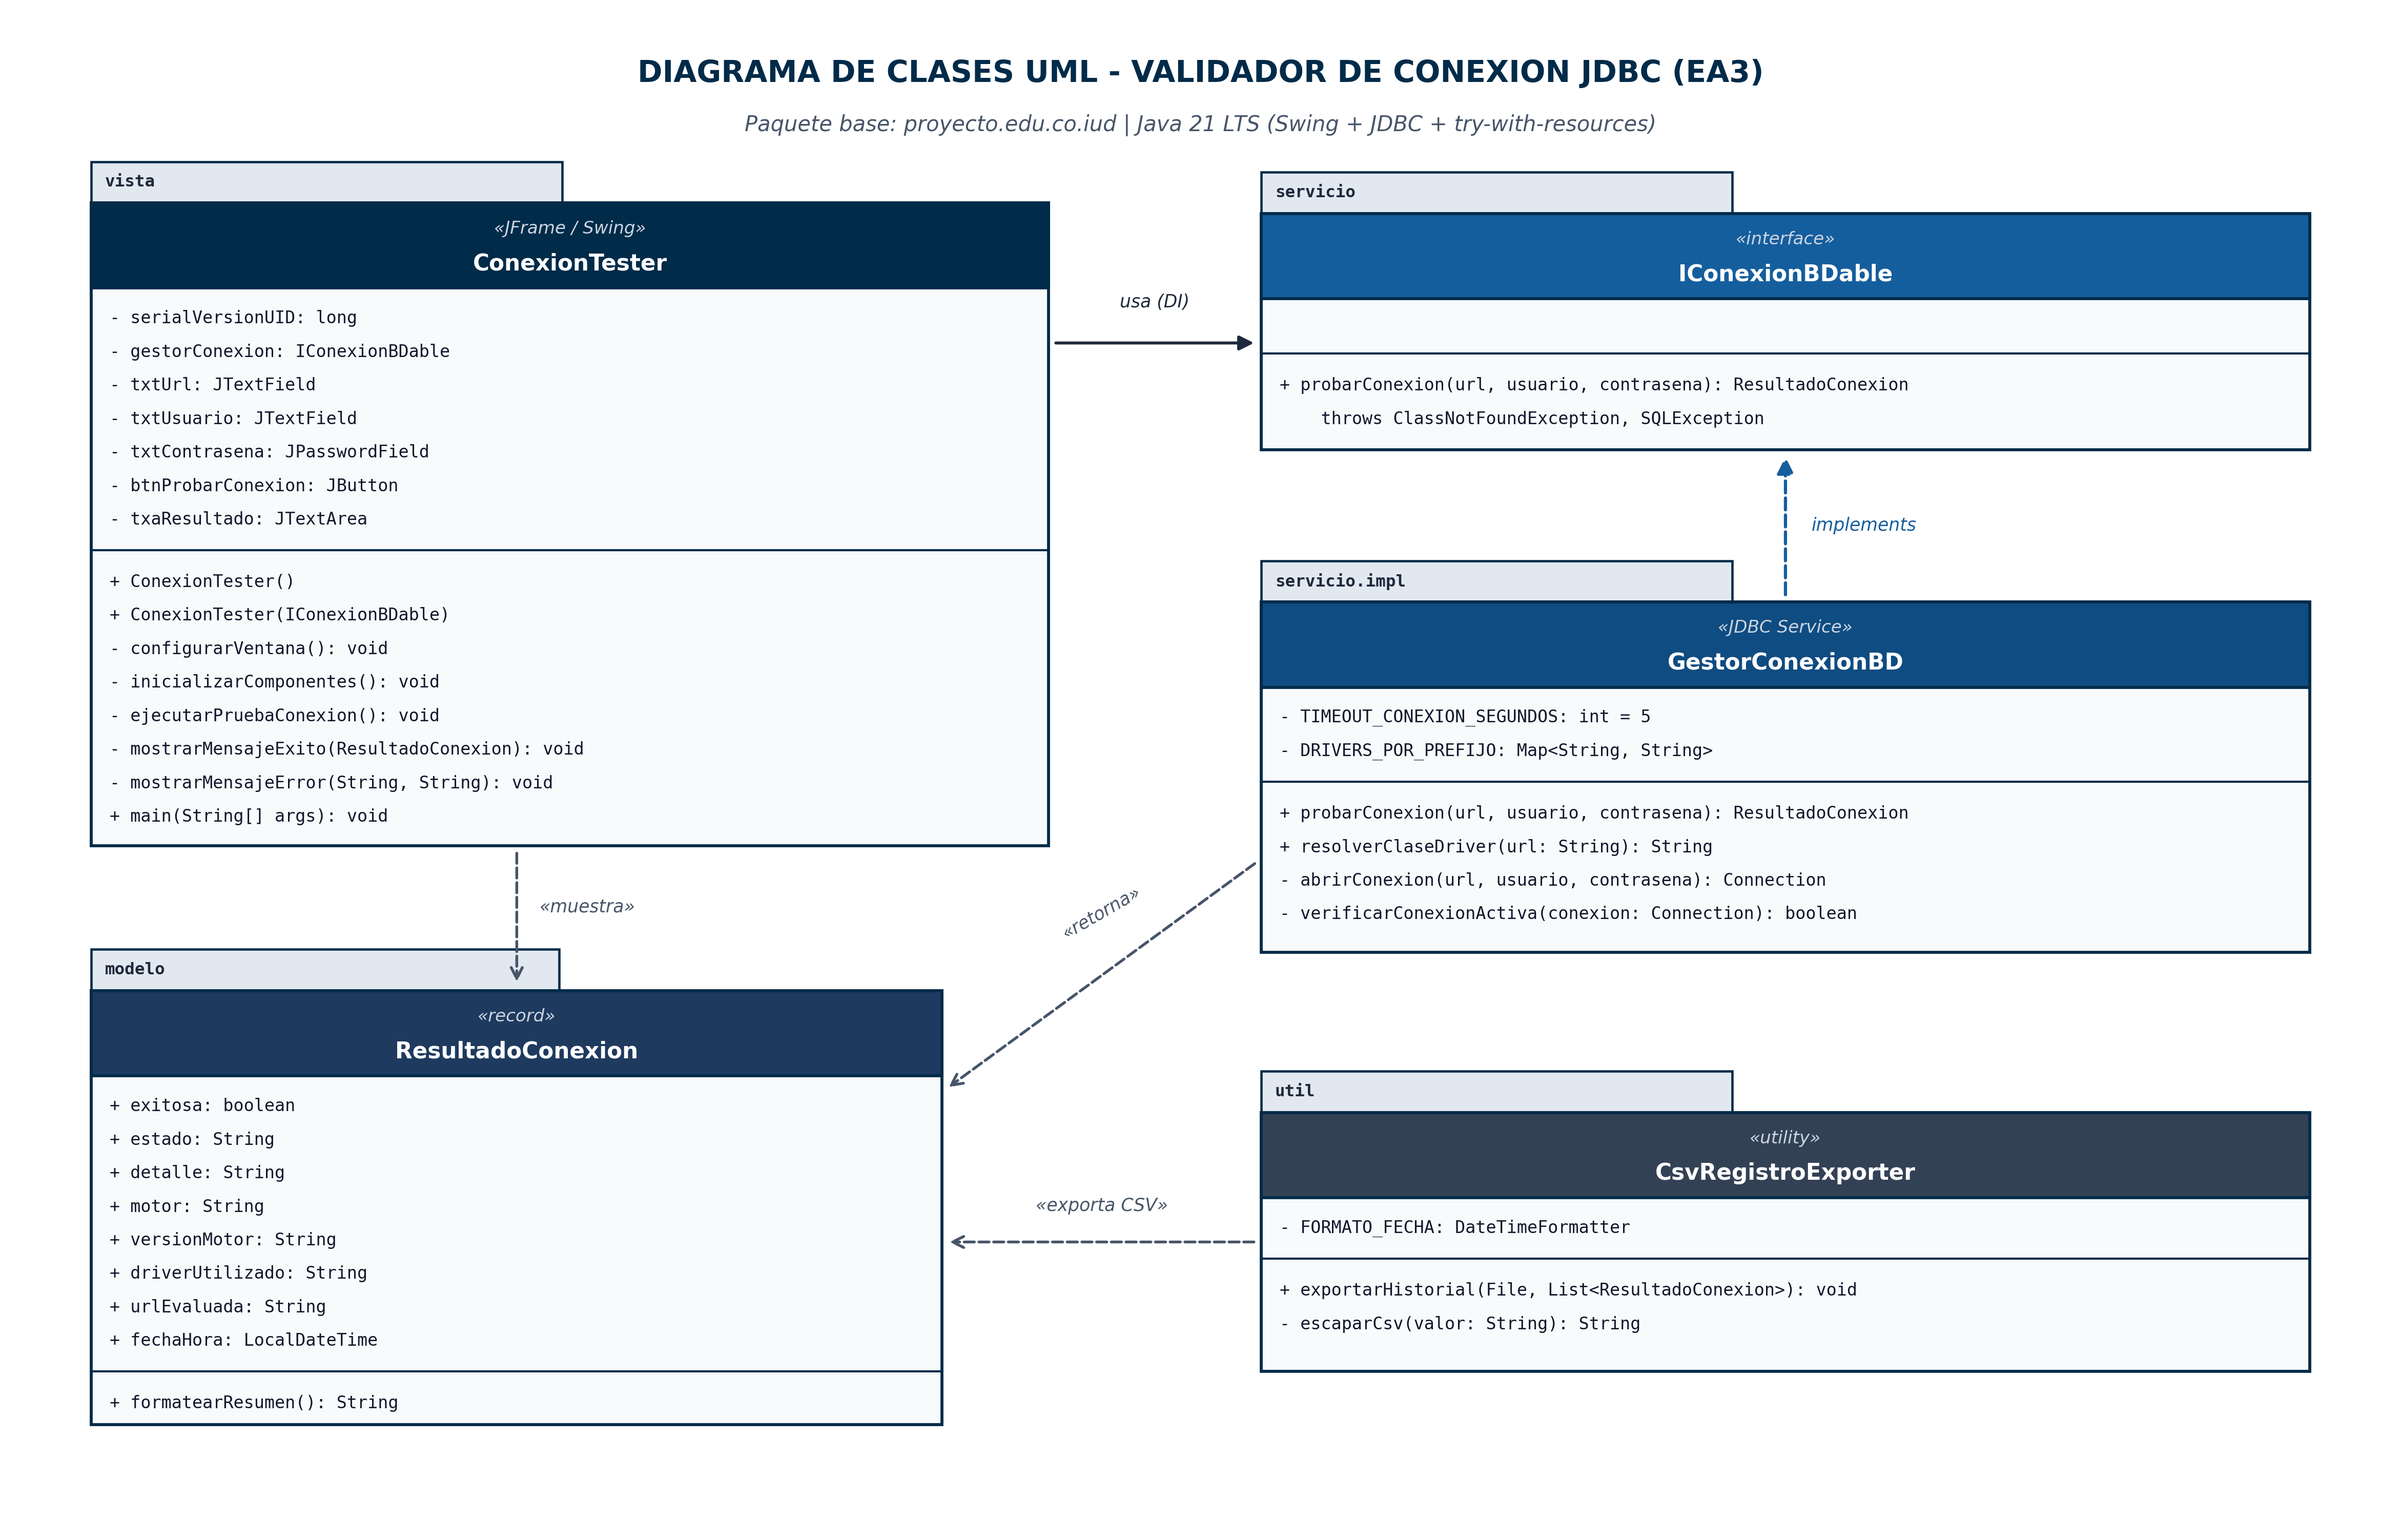
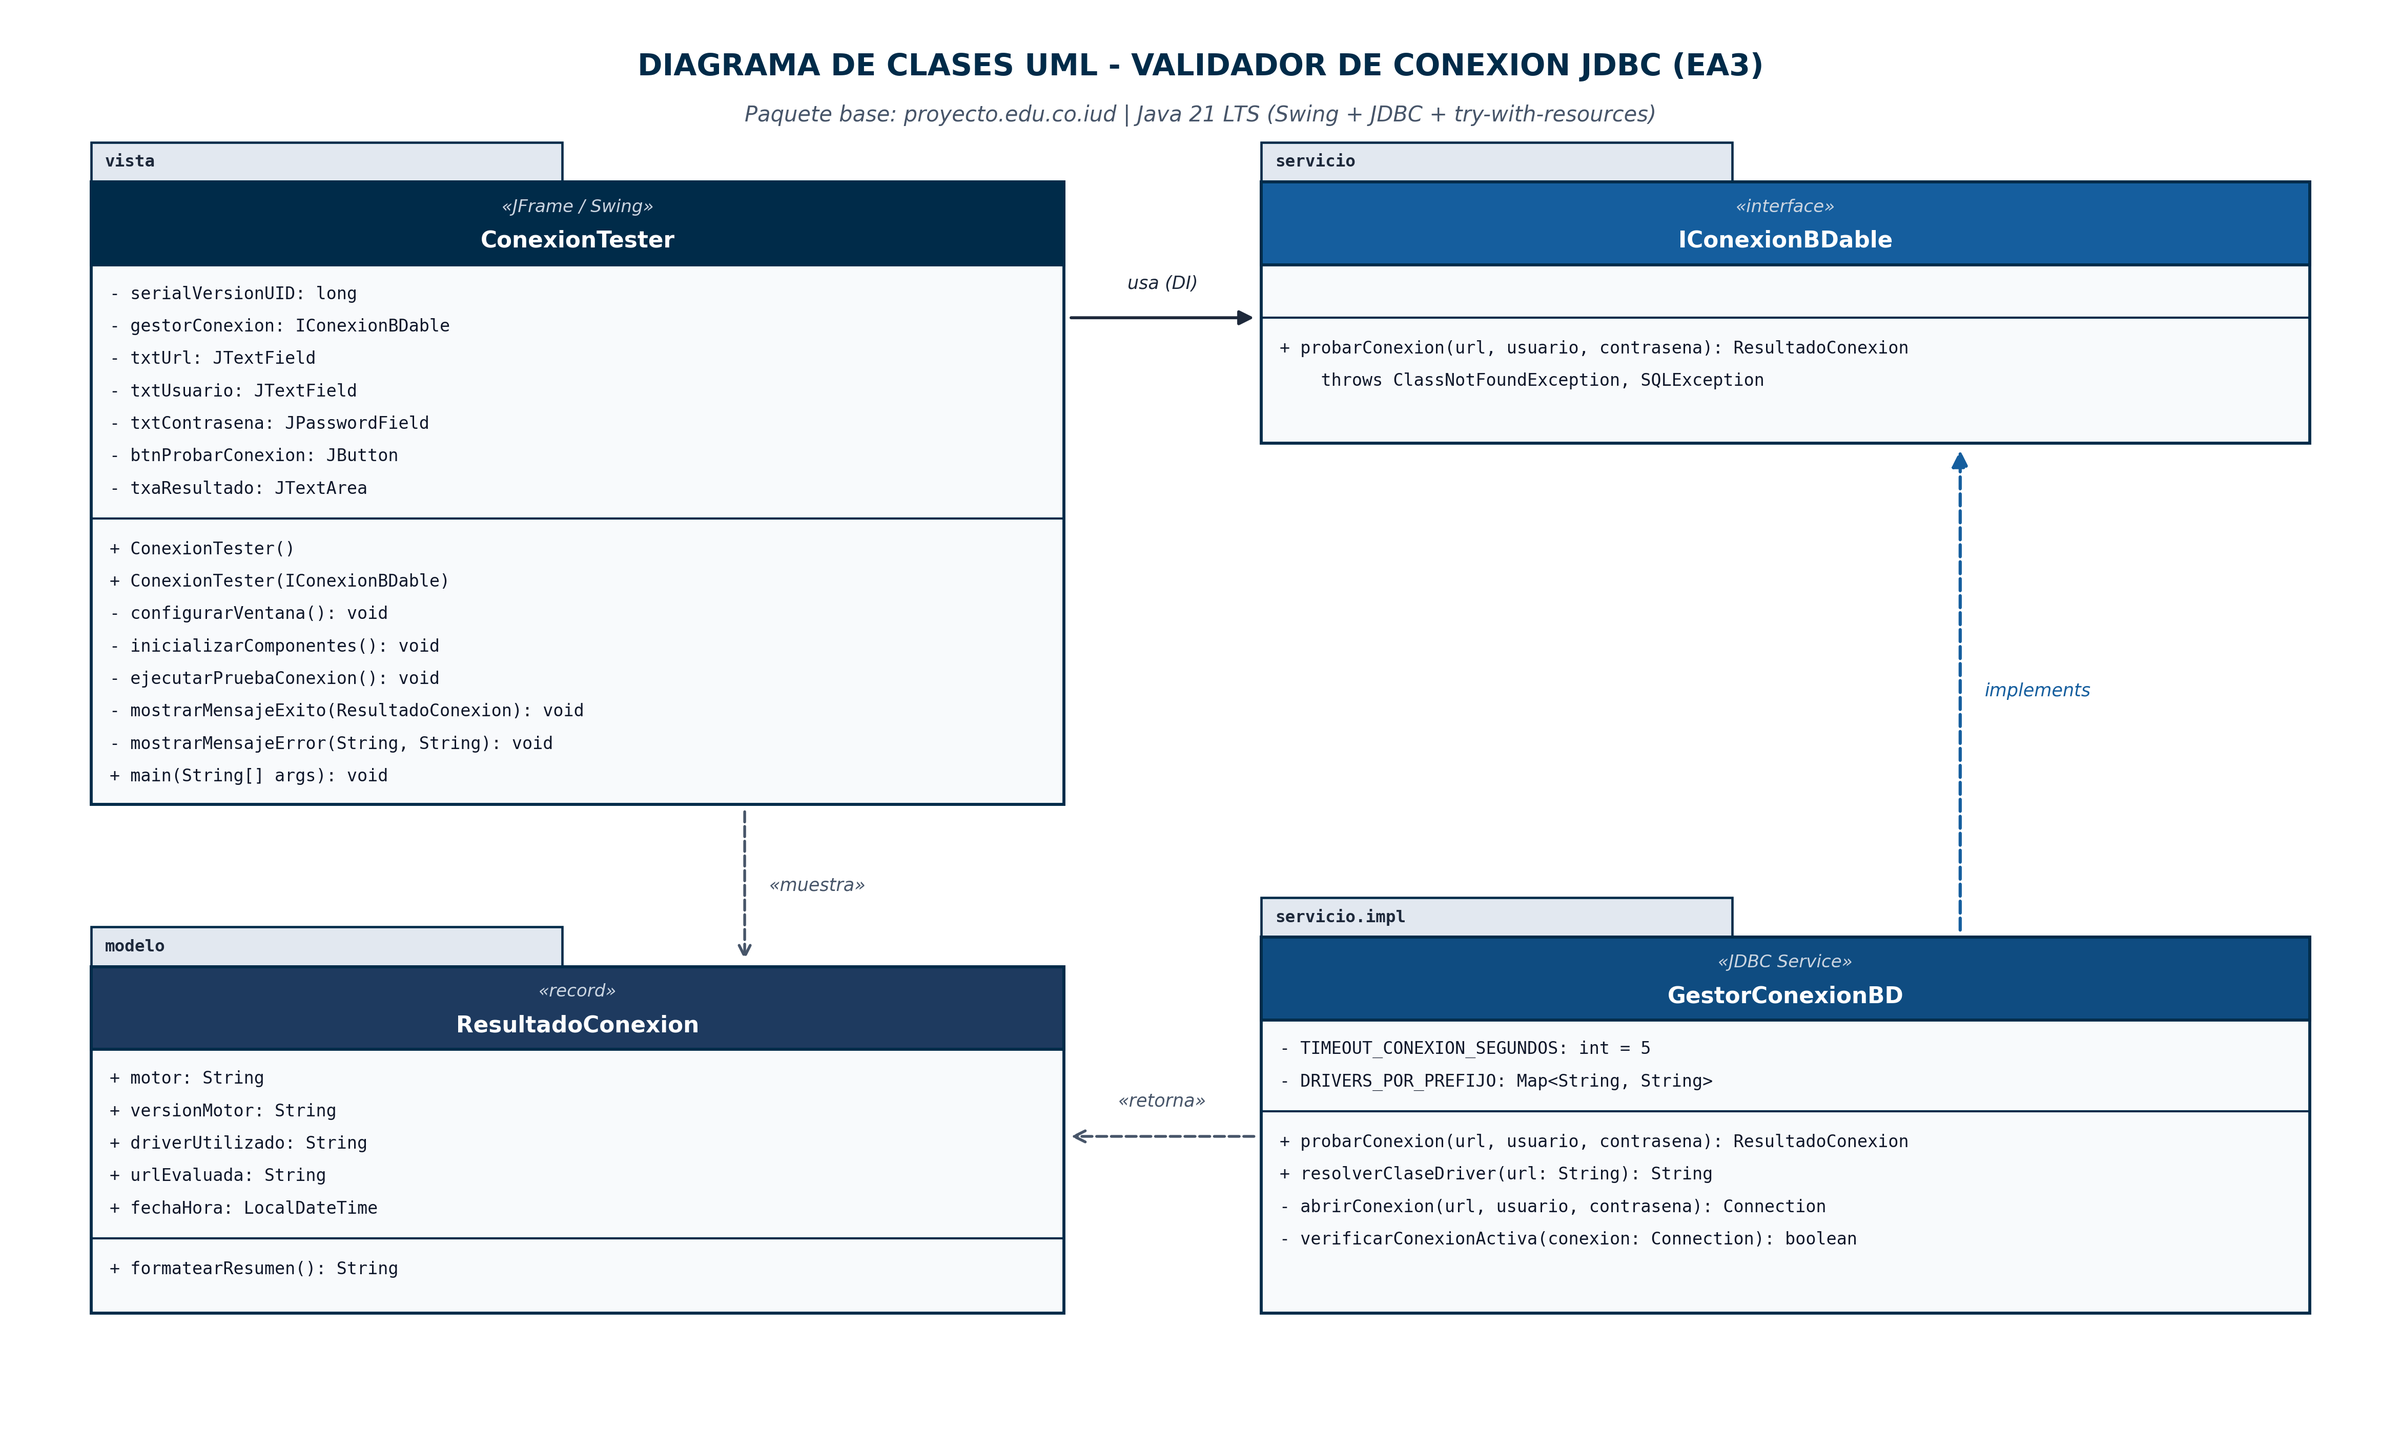
Elimina clase utilitaria sin uso y simplifica modelo ResultadoConexion

diff --git a/src/proyecto/edu/co/iud/modelo/ResultadoConexion.java b/src/proyecto/edu/co/iud/modelo/ResultadoConexion.java
@@ -7,9 +7,6 @@ import java.time.format.DateTimeFormatter;
  * Representa el resultado inmutable de una prueba de conexión JDBC.
  */
 public record ResultadoConexion(
-        boolean exitosa,
-        String estado,
-        String detalle,
         String motor,
         String versionMotor,
         String driverUtilizado,
@@ -25,9 +22,10 @@ public record ResultadoConexion(
      */
     public String formatearResumen() {
         StringBuilder sb = new StringBuilder();
-        sb.append(estado).append(System.lineSeparator());
+        sb.append("Conexión exitosa").append(System.lineSeparator());
         sb.append("--------------------------------------------------").append(System.lineSeparator());
-        sb.append("Detalle       : ").append(detalle).append(System.lineSeparator());
+        sb.append("Detalle       : La comunicación con la base de datos se estableció correctamente.")
+                .append(System.lineSeparator());
         sb.append("URL           : ").append(urlEvaluada).append(System.lineSeparator());
         if (motor != null && !motor.isBlank()) {
             sb.append("Motor BD      : ").append(motor);

diff --git a/src/proyecto/edu/co/iud/servicio/impl/GestorConexionBD.java b/src/proyecto/edu/co/iud/servicio/impl/GestorConexionBD.java
@@ -58,9 +58,6 @@ public class GestorConexionBD implements IConexionBDable {
             String nombreDriver = metaDatos.getDriverName();
 
             return new ResultadoConexion(
-                    true,
-                    "Conexión exitosa",
-                    "La comunicación con la base de datos se estableció correctamente.",
                     nombreMotor,
                     versionMotor,
                     nombreDriver,

diff --git a/README.md b/README.md
@@ -25,8 +25,6 @@ EA3_Incorporando_UI_y_BD/
         │   ├── IConexionBDable.java
         │   └── impl/
         │       └── GestorConexionBD.java
-        ├── util/
-        │   └── CsvRegistroExporter.java
         └── vista/
             └── ConexionTester.java
 ```
